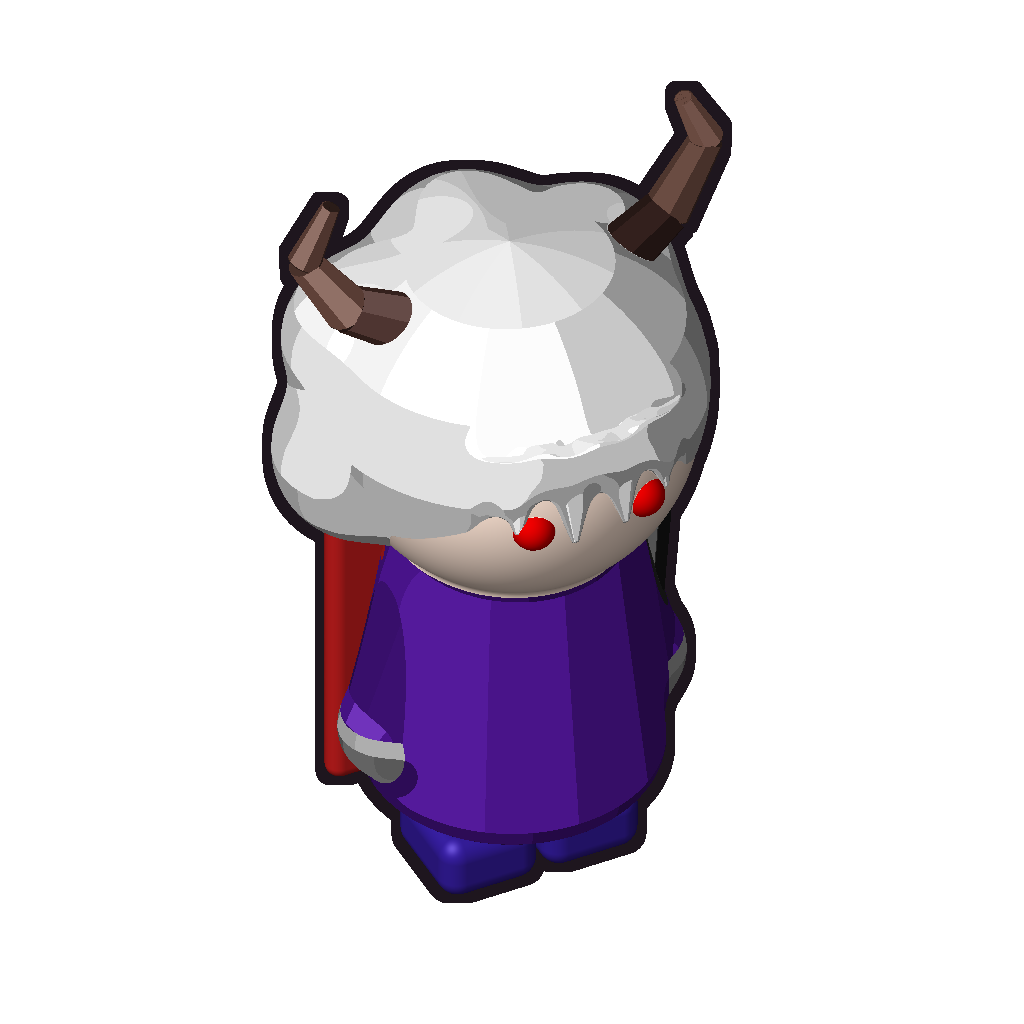
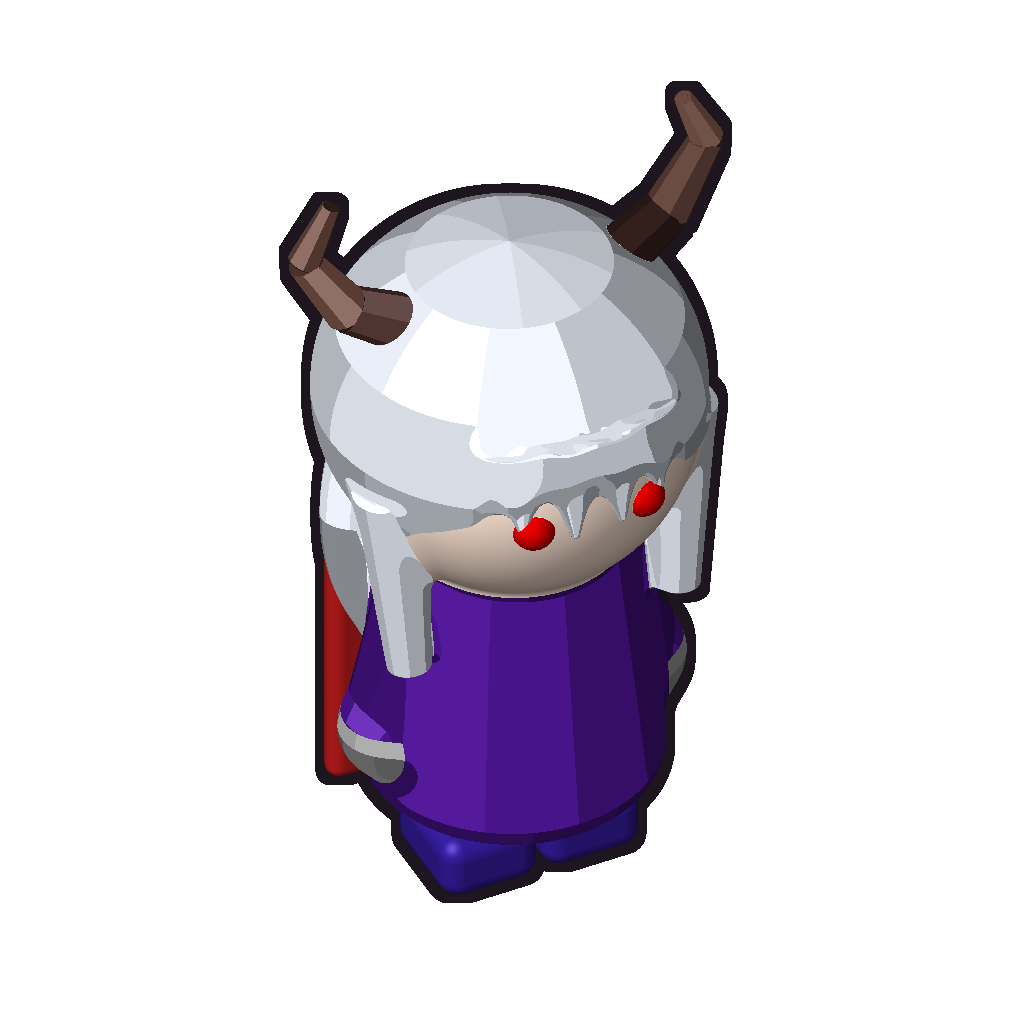
ネロ: long straight silver hair
Claude-Session: https://claude.ai/code/session_01Y8UvxYqorfKZuVGLMtA7nQ

diff --git a/gen/heroes_extra.py b/gen/heroes_extra.py
@@ -102,7 +102,13 @@ def clown(ph):
 def overlord(ph):
     """元魔王：銀髪に大きな巻き角、赤い瞳。黒紫の外套と赤いマント、赤い宝玉の杖"""
     P,h,hc,hr=body(ph,'#4a148c','#212121','#311b92',mitten='#9e9e9e',stout=1.1,belt='#ffca28')
-    P.append(mass(hc,hr,'#e0e0e0',window=(0.68,0.6,0.5),r=(1.08,1.0,1.06),bulge=True,bangs=((-0.4,0.45),(-0.12,0.55),(0.16,0.52),(0.42,0.44))))
+    # 銀髪ロング：毛束のふくらみ無しのストレート、後ろ髪は腰まで、横髪は肩の前へ垂らす
+    hair='#d6dbe4'
+    P.append(mass(hc,hr,hair,window=(0.68,0.6,0.5),r=(1.07,1.0,1.06),bulge=False,bangs=((-0.38,0.45),(-0.12,0.52),(0.14,0.5),(0.38,0.44))))
+    P.append(S('ell',hc+V3(0,-0.95,-0.62)*hr,hair,op='blend',k=0.04,r=(0.85*hr,1.25*hr,0.32*hr),facet=(4,10),spec=0.3))
+    for s_ in (-1,1):
+        a=hc+V3(0.86*s_,-0.1,0.25)*hr; b=hc+V3(0.8*s_,-1.25,0.35)*hr
+        R,L=look(a,b); P.append(S('cone',a,hair,op='blend',k=0.03,R=R,h=L,ra=0.2*hr,rb=0.12*hr,facet=(3,8),spec=0.3))
     # 巻き角（根元は黒、先へ向かって外→上→内へ巻く）
     for s_ in (-1,1):
         pts=[hc+V3(0.55*s_,0.72,-0.05)*hr,hc+V3(0.95*s_,0.95,-0.1)*hr,hc+V3(1.2*s_,1.35,-0.12)*hr,hc+V3(1.05*s_,1.7,-0.1)*hr]
